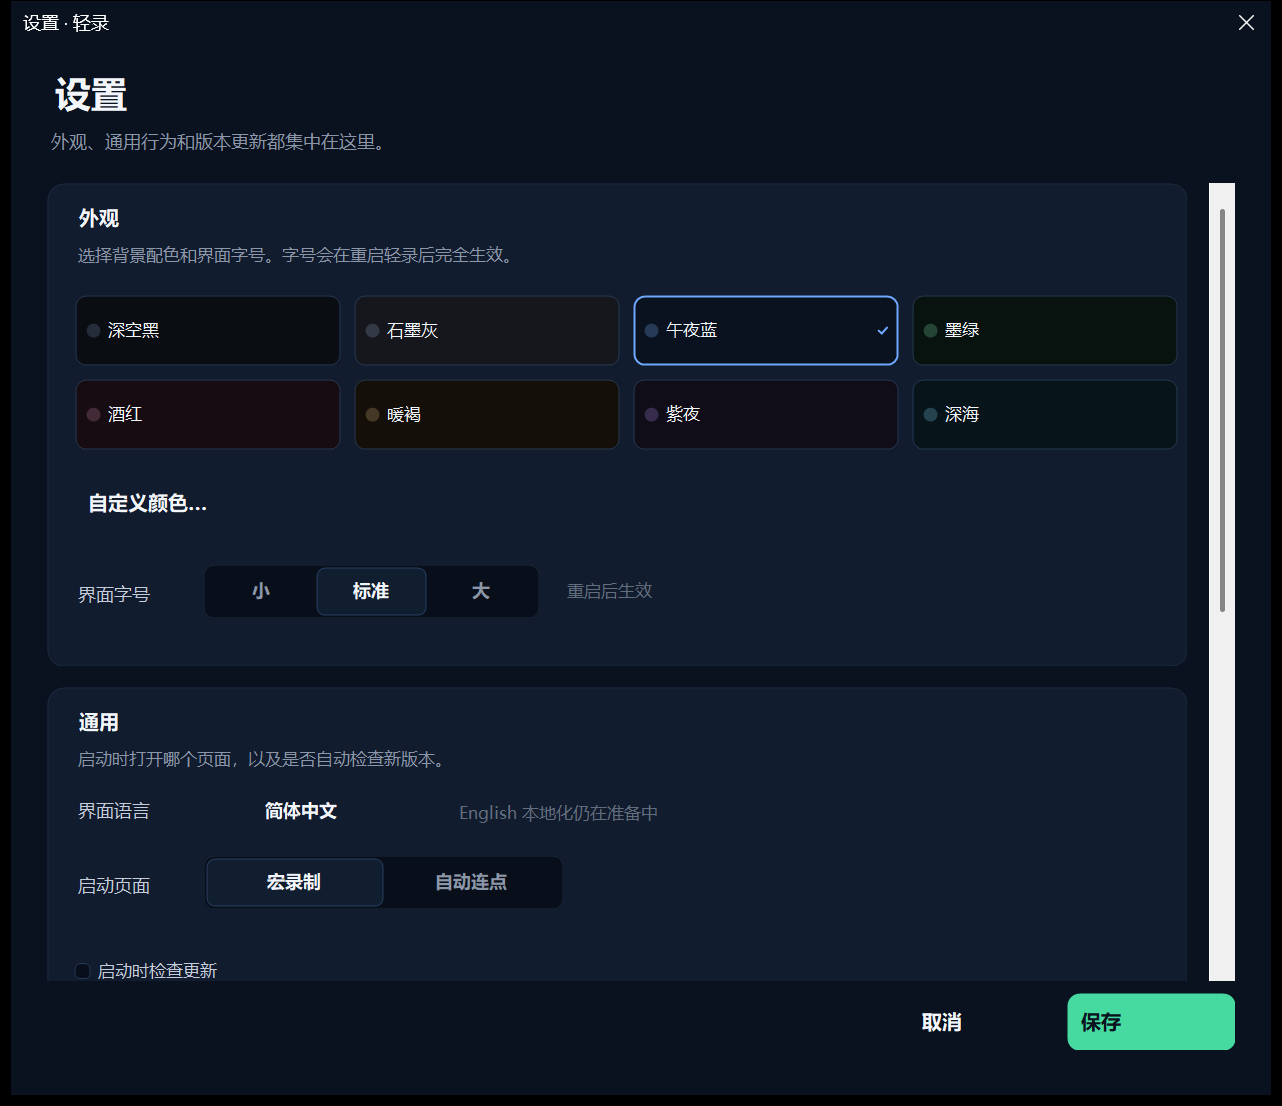
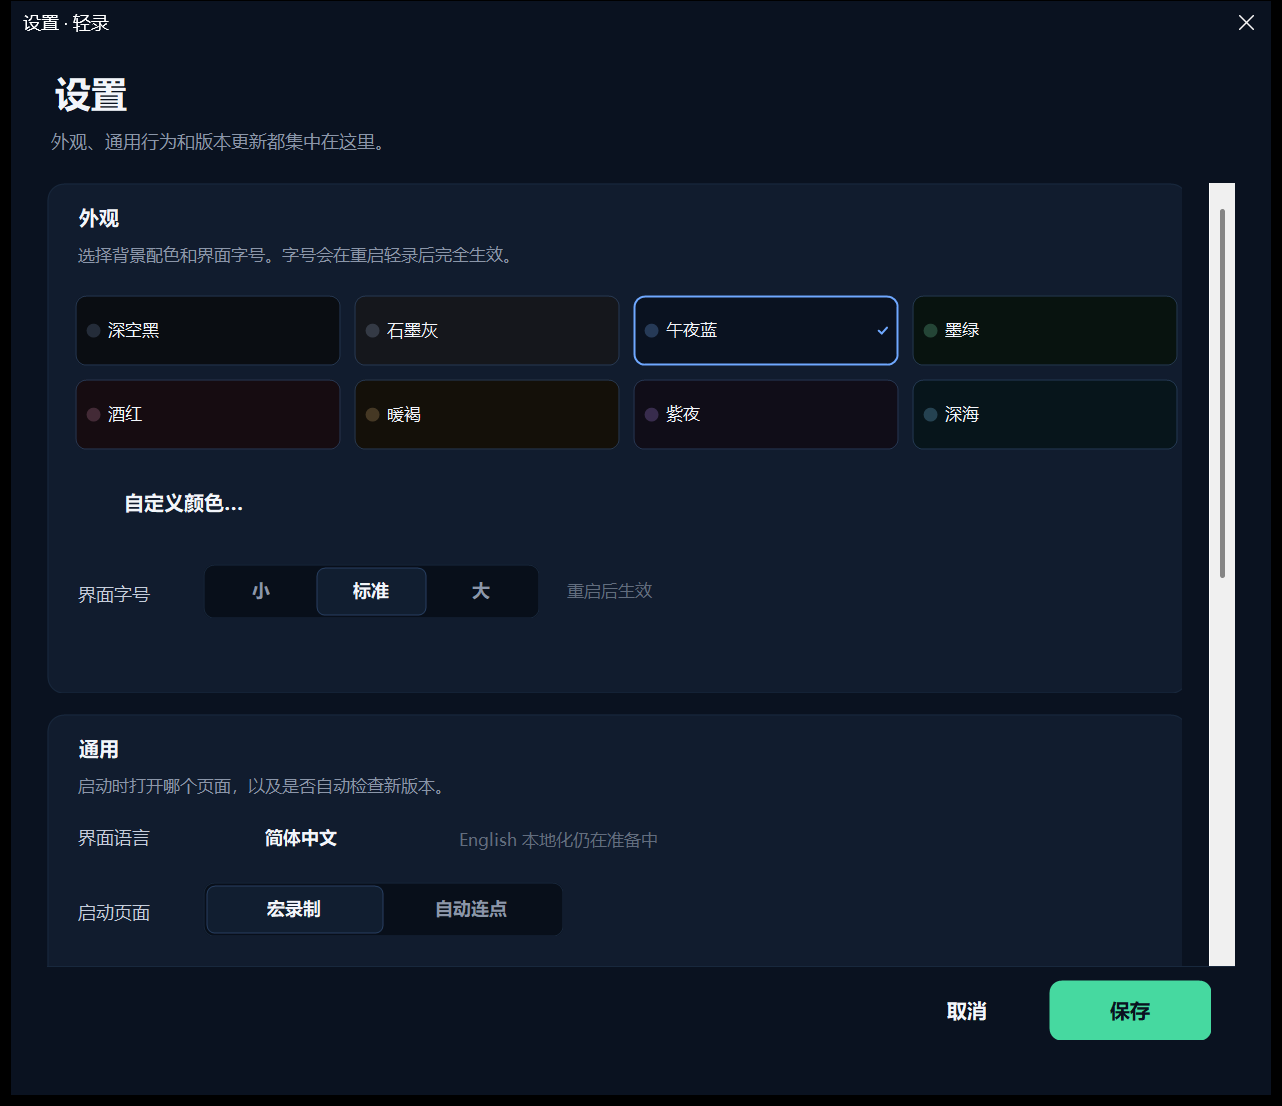
Fix UI label alignment and settings footer spacing

diff --git a/ClickFlow/UI/SettingsDialog.cs b/ClickFlow/UI/SettingsDialog.cs
@@ -55,16 +55,11 @@ internal sealed class SettingsDialog : Form
         };
         var headerSpacer = new Panel { Dock = DockStyle.Top, Height = 8, BackColor = Color.Transparent };
 
-        var footer = new Panel { Dock = DockStyle.Bottom, Height = 58, BackColor = Color.Transparent };
-        var footerActions = new FlowLayoutPanel
+        var footer = new Panel { Dock = DockStyle.Bottom, Height = 68, BackColor = Color.Transparent };
+        footer.Paint += (_, e) =>
         {
-            Dock = DockStyle.Right,
-            AutoSize = true,
-            AutoSizeMode = AutoSizeMode.GrowAndShrink,
-            FlowDirection = FlowDirection.RightToLeft,
-            WrapContents = false,
-            Padding = new Padding(0, 8, 0, 0),
-            BackColor = Color.Transparent
+            using var pen = new Pen(Theme.BorderSoft, 1);
+            e.Graphics.DrawLine(pen, 0, 0, footer.Width, 0);
         };
 
         var save = new FlatButton
@@ -72,8 +67,7 @@ internal sealed class SettingsDialog : Form
             Text = "保存",
             Style = FlatButtonStyle.Solid,
             AccentColor = Theme.Green,
-            Size = new Size(112, 38),
-            Margin = new Padding(0, 0, 0, 0)
+            Size = new Size(108, 40)
         };
         save.Click += (_, _) => { DialogResult = DialogResult.OK; Close(); };
 
@@ -81,21 +75,27 @@ internal sealed class SettingsDialog : Form
         {
             Text = "取消",
             Style = FlatButtonStyle.Ghost,
-            Size = new Size(96, 38),
-            Margin = new Padding(0, 0, 10, 0)
+            Size = new Size(96, 40)
         };
         cancel.Click += (_, _) => { DialogResult = DialogResult.Cancel; Close(); };
 
-        footerActions.Controls.Add(save);
-        footerActions.Controls.Add(cancel);
-        footer.Controls.Add(footerActions);
+        footer.Controls.Add(save);
+        footer.Controls.Add(cancel);
+        footer.Resize += (_, _) =>
+        {
+            var right = footer.ClientSize.Width - 24;
+            save.Left = Math.Max(0, right - save.Width);
+            cancel.Left = Math.Max(0, save.Left - cancel.Width - 10);
+            save.Top = 14;
+            cancel.Top = 14;
+        };
 
         _content = new Panel
         {
             Dock = DockStyle.Fill,
             AutoScroll = true,
             BackColor = Color.Transparent,
-            Padding = new Padding(0, 0, 6, 0)
+            Padding = new Padding(0, 0, 18, 0)
         };
         var content = _content;
         var flow = new FlowLayoutPanel
@@ -110,7 +110,7 @@ internal sealed class SettingsDialog : Form
             Padding = new Padding(0)
         };
         content.Controls.Add(flow);
-        content.Resize += (_, _) => flow.Width = Math.Max(400, content.ClientSize.Width - 18);
+        content.Resize += (_, _) => flow.Width = Math.Max(400, content.ClientSize.Width - 30);
 
         var appearance = BuildAppearance(out _fontScale);
         var general = BuildGeneral(out _startupPage, out _checkUpdates);
@@ -178,7 +178,7 @@ internal sealed class SettingsDialog : Form
         var card = SectionCard(
             "外观",
             "选择背景配色和界面字号。字号会在重启轻录后完全生效。",
-            322);
+            340);
 
         var swatchFlow = new FlowLayoutPanel
         {
@@ -254,7 +254,7 @@ internal sealed class SettingsDialog : Form
         var card = SectionCard(
             "通用",
             "启动时打开哪个页面，以及是否自动检查新版本。",
-            244);
+            258);
 
         var languageLabel = new Label
         {
@@ -327,7 +327,7 @@ internal sealed class SettingsDialog : Form
         var card = SectionCard(
             "数据",
             "录制记录默认保存在程序旁的 data 文件夹。删除记录会同时删除对应文件。",
-            172);
+            180);
 
         var path = new Label
         {
@@ -374,7 +374,7 @@ internal sealed class SettingsDialog : Form
         var card = SectionCard(
             "关于与更新",
             "轻录 ClickFlow · 本地录制与回放工具",
-            190);
+            200);
 
         var version = new Label
         {

diff --git a/ClickFlow/UI/Controls/FlatButton.cs b/ClickFlow/UI/Controls/FlatButton.cs
@@ -157,18 +157,22 @@ internal class FlatButton : Control
             }
 
             var textRight = Width - pad - (hotkeyWidth > 0 ? hotkeyWidth + 8 : 0);
-            var textRect = new Rectangle(
-                (int)x,
-                0,
-                Math.Max(0, (int)(textRight - x)),
-                Height + 1);
+            var centered = Icon == Glyph.None && hotkeyWidth == 0;
+            var textRect = centered
+                ? new Rectangle(6, 0, Math.Max(0, Width - 12), Height + 1)
+                : new Rectangle(
+                    (int)x,
+                    0,
+                    Math.Max(0, (int)(textRight - x)),
+                    Height + 1);
             TextRenderer.DrawText(
                 e.Graphics,
                 Text,
                 Font,
                 textRect,
                 textColor,
-                TextFormatFlags.Left | TextFormatFlags.VerticalCenter |
+                (centered ? TextFormatFlags.HorizontalCenter : TextFormatFlags.Left) |
+                TextFormatFlags.VerticalCenter |
                 TextFormatFlags.SingleLine | TextFormatFlags.EndEllipsis |
                 TextFormatFlags.NoPadding);
 

diff --git a/ClickFlow/Core/MacroModels.cs b/ClickFlow/Core/MacroModels.cs
@@ -41,7 +41,7 @@ public sealed class MacroDocument
     public int Version { get; set; } = 1;
     public string Name { get; set; } = "未命名宏";
     public DateTime CreatedUtc { get; set; } = DateTime.UtcNow;
-    public string AppVersion { get; set; } = "1.1.3";
+    public string AppVersion { get; set; } = "1.1.4";
     public int ScreenWidth { get; set; }
     public int ScreenHeight { get; set; }
     public List<MacroEvent> Events { get; set; } = new();

diff --git a/ClickFlow/UI/MainForm.Layout.cs b/ClickFlow/UI/MainForm.Layout.cs
@@ -926,7 +926,7 @@ internal sealed partial class MainForm
         };
         _footerVersion = new Label
         {
-            Text = "v1.1.3",
+            Text = "v1.1.4",
             Font = Theme.TinyMono,
             ForeColor = Theme.MutedDim,
             BackColor = Color.Transparent,

diff --git a/README.md b/README.md
@@ -8,6 +8,12 @@
 
 ![设置中心](screenshots/settings.png)
 
+## 1.1.4 界面细节修复
+
+- 设置窗口底部“取消 / 保存”改为居中文字，并增加右侧安全边距，避免被窗口边缘或滚动条裁切。
+- 设置卡片增加高度和间距，滚动区域留出右侧空间，减少标签与滚动条重叠。
+- 全局检查无图标按钮的文字对齐：无图标时居中，有图标时保持左对齐和快捷键标签布局。
+
 ## 1.1.3 新增设置中心
 
 - 右上角调色盘换成**齿轮设置按钮**，不再弹出会崩溃的右键菜单。
